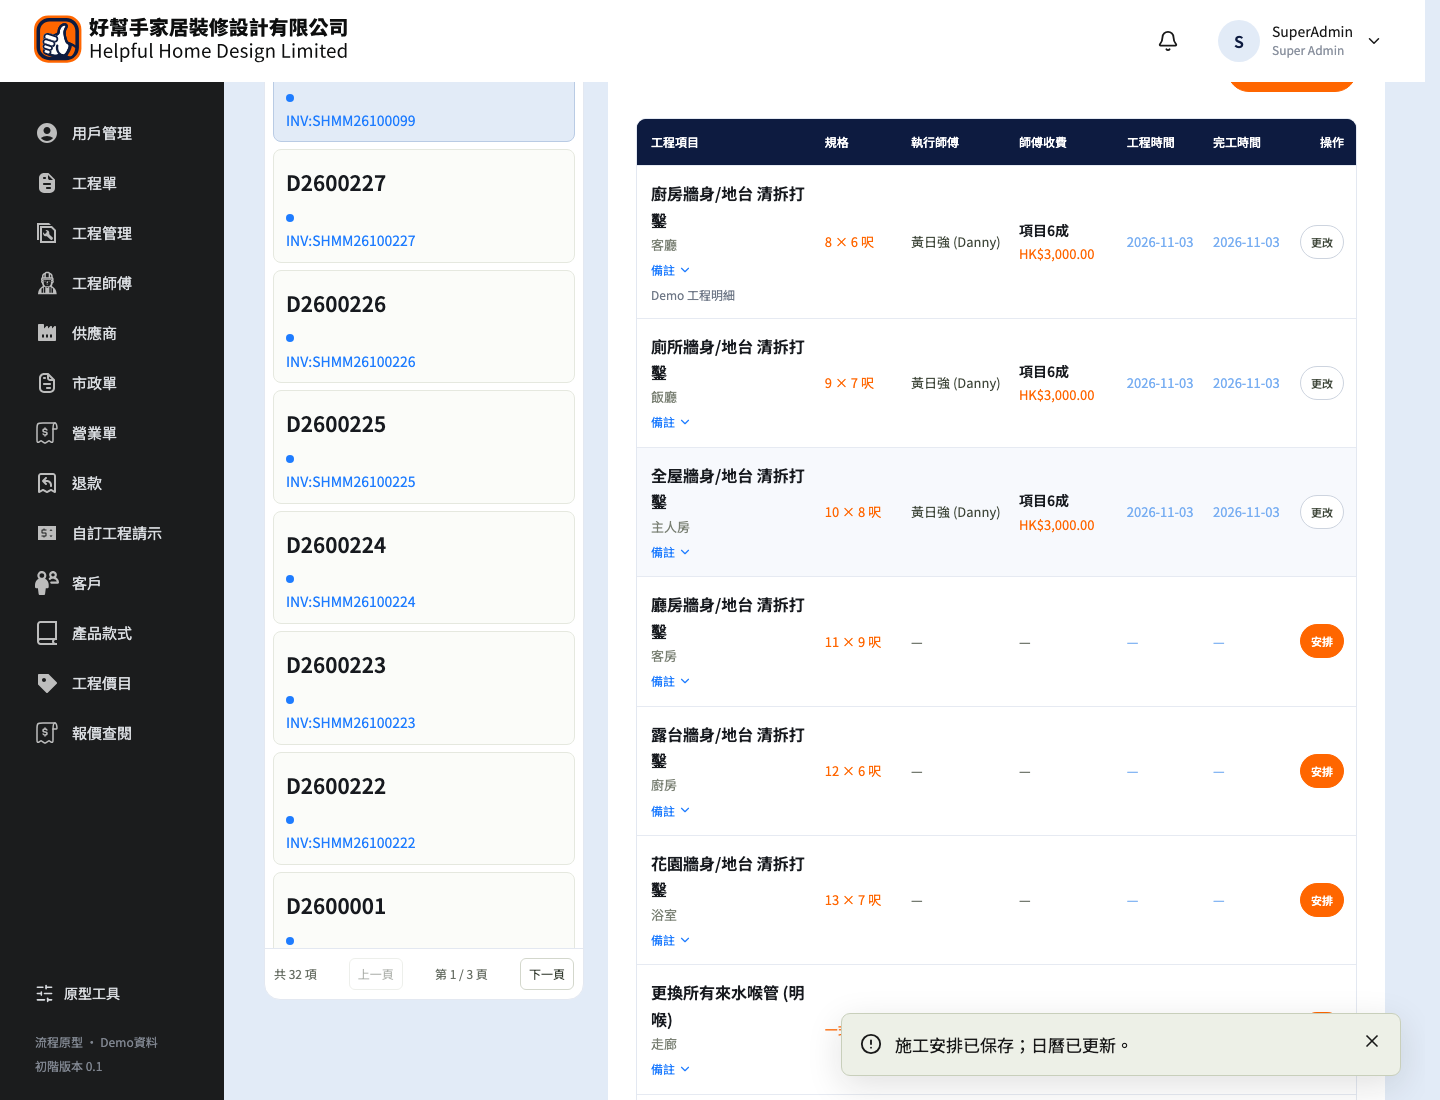
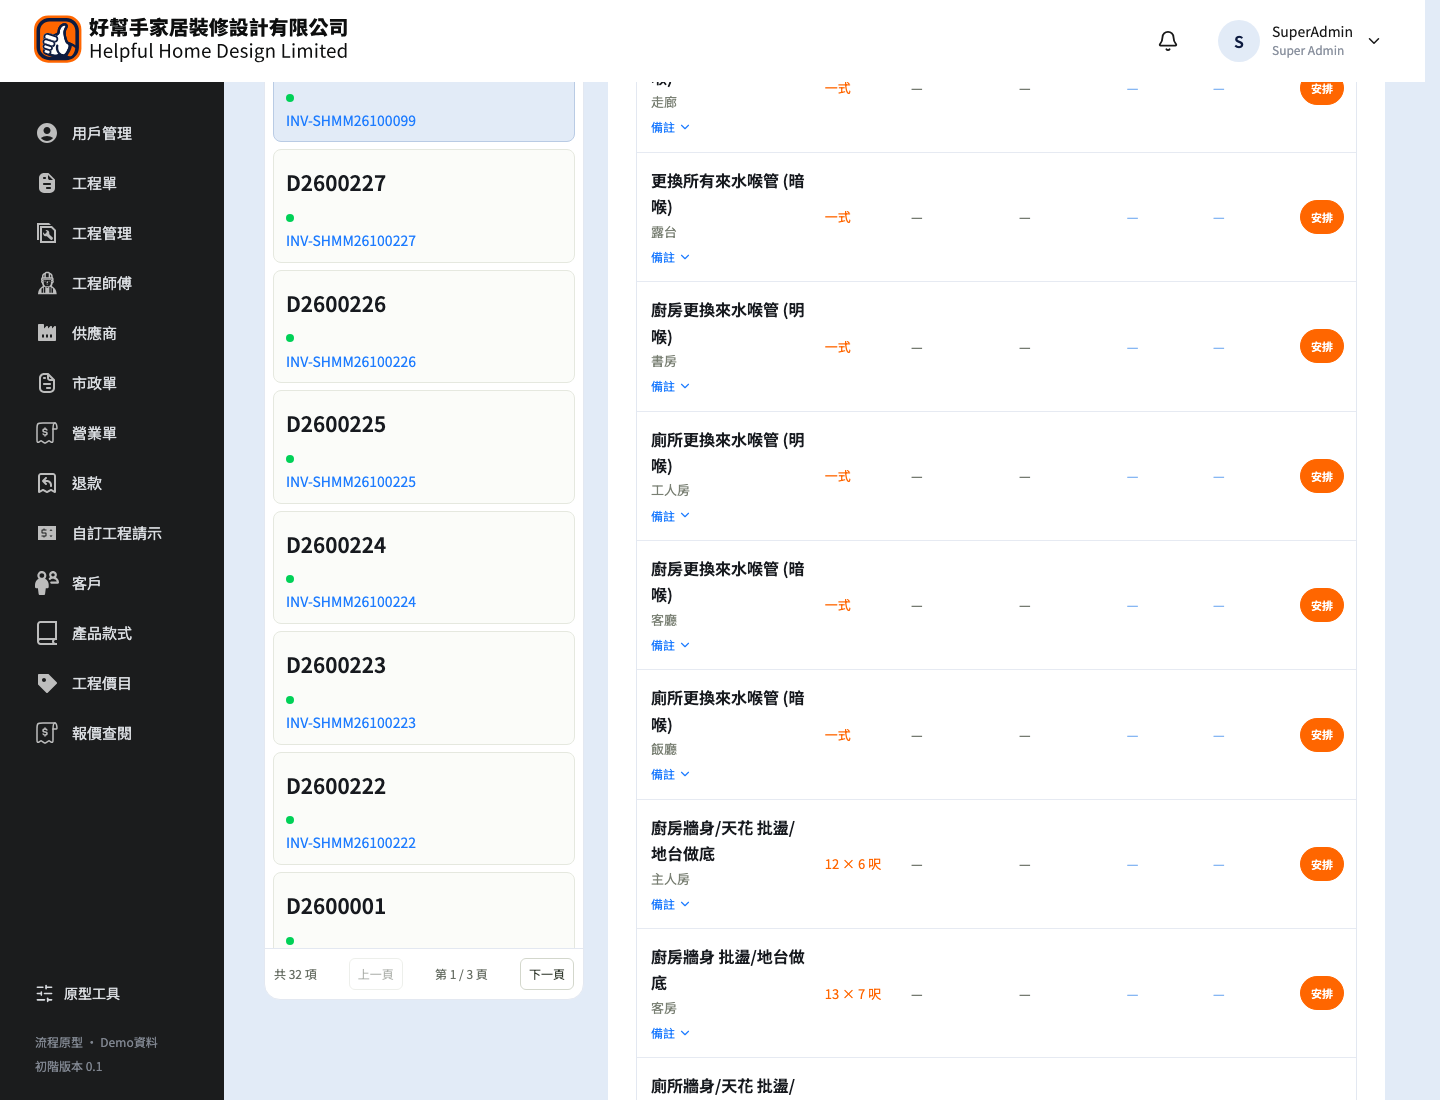
fix(engineering): align category colors and extra-work tint to SVG

diff --git a/src/pages/Office.tsx b/src/pages/Office.tsx
@@ -1902,22 +1902,7 @@ function WorkOrderRail({
                     ))}
                   </span>
                 </span>
-                {invoiceNumber ? (
-                  <button
-                    type="button"
-                    className="order-rail-invoice-print"
-                    aria-label={`列印 ${invoiceNumber} Invoice`}
-                    onClick={(event) => {
-                      event.stopPropagation();
-                      nav("/documents/invoice/" + order.invoiceId);
-                    }}
-                  >
-                    <span>INV:{invoiceNumber}</span>
-                    <Printer size={17} />
-                  </button>
-                ) : (
-                  <small>INV:—</small>
-                )}
+                <small>INV-{invoiceNumber || "—"}</small>
               </div>
             );
           })
@@ -2452,7 +2437,15 @@ function OrderPanel({ order }: { order: WorkOrder }) {
             <CategoryChips categories={categories} />
             {order.status === "completed" && <Badge strong>工程完成</Badge>}
           </div>
-          <small className="wo-invoice-number">INV:{invoice.number}</small>
+          <button
+            type="button"
+            className="wo-invoice-print"
+            aria-label={`列印 ${invoice.number} Invoice`}
+            onClick={() => nav("/documents/invoice/" + invoice.id)}
+          >
+            <span>INV-{invoice.number}</span>
+            <Printer size={18} />
+          </button>
         </div>
         <div className="wo-date-summary">
           <span>工程時間</span>

diff --git a/src/styles.css b/src/styles.css
@@ -9023,3 +9023,43 @@ textarea::placeholder {
 .order-rail-invoice-print svg {
   color: #78aef2;
 }
+
+/* SVG reference: self-pay green, group-buy blue, 8萬 orange */
+.order-rail-dot.self-pay {
+  background: #00d157;
+}
+.order-rail-dot.group-buy {
+  background: #1e7cff;
+}
+.order-rail-dot.grant-80k {
+  background: #ff8e00;
+}
+/* Extra work rows use Primary Orange 4 */
+.engineering-table .extra-work-row {
+  background: #fff5e9;
+}
+
+/* Header INV + printer is one text/icon button */
+.wo-invoice-print {
+  display: inline-flex;
+  align-items: center;
+  gap: 7px;
+  margin-top: 5px;
+  padding: 0;
+  border: 0;
+  background: transparent;
+  color: #78aef2;
+  font-size: 14px;
+  text-align: left;
+}
+.wo-invoice-print:hover span {
+  text-decoration: underline;
+}
+.wo-invoice-print svg {
+  color: #78aef2;
+}
+
+.wo-invoice-print svg {
+  width: 20px;
+  height: 20px;
+}

diff --git a/tests/e2e/engineering-management.spec.ts b/tests/e2e/engineering-management.spec.ts
@@ -36,7 +36,7 @@ test("工程管理：主管看全部、普通CS只看自己、日曆、逐項安
   ).toBeVisible();
   await expect(page.getByRole("region", { name: "工程日曆" })).toBeVisible();
   await expect(
-    rail.getByRole("button", { name: /列印.*Invoice/ }).first(),
+    page.getByRole("button", { name: /列印.*Invoice/ }).first(),
   ).toBeVisible();
   await expect(rail.locator(".order-rail-dot").first()).toBeVisible();
 

diff --git a/src/pages/DesignOrdersPreview.tsx b/src/pages/DesignOrdersPreview.tsx
@@ -42,9 +42,9 @@ const DEMO_CATEGORIES: InvoiceCategory[][] = [
 ];
 
 const CATEGORY_CLASS: Record<string, string> = {
-  "grant-80k": "green",
-  "group-buy": "orange",
-  "self-pay": "blue",
+  "self-pay": "green",
+  "group-buy": "blue",
+  "grant-80k": "orange",
 };
 
 export function DesignOrdersPreview() {

diff --git a/src/components/ui.tsx b/src/components/ui.tsx
@@ -36,9 +36,9 @@ export function Button({
 }
 
 const CATEGORY_TONES: Record<string, string> = {
-  "grant-80k": "green",
-  "group-buy": "orange",
-  "self-pay": "blue",
+  "self-pay": "green",
+  "group-buy": "blue",
+  "grant-80k": "orange",
 };
 
 export function CategoryChips({
